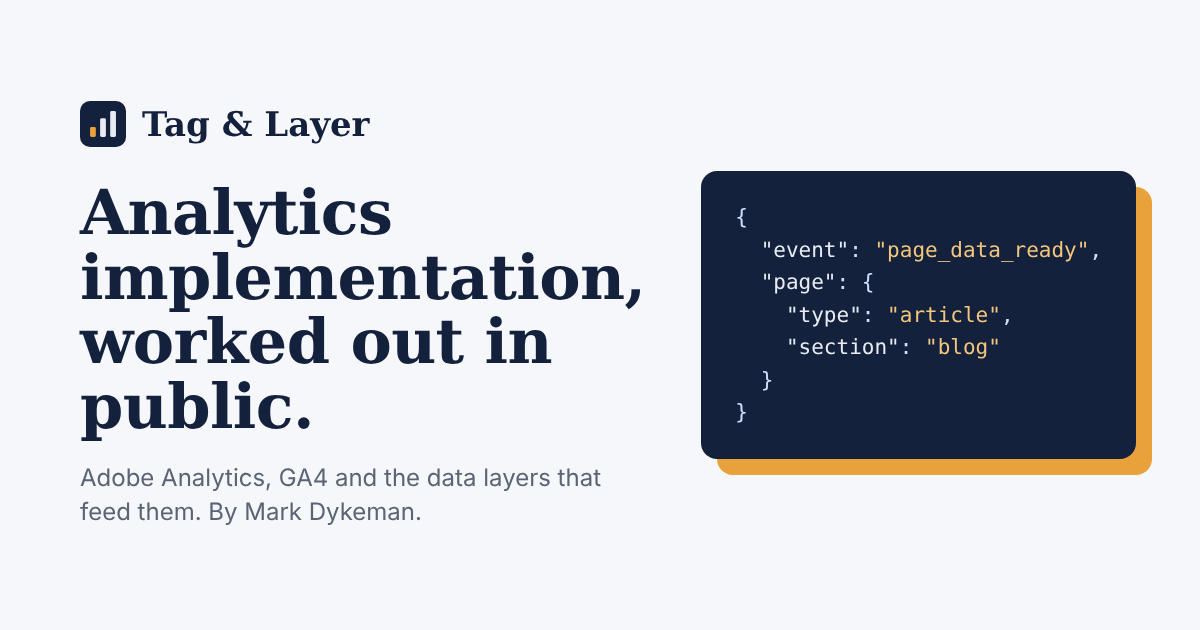
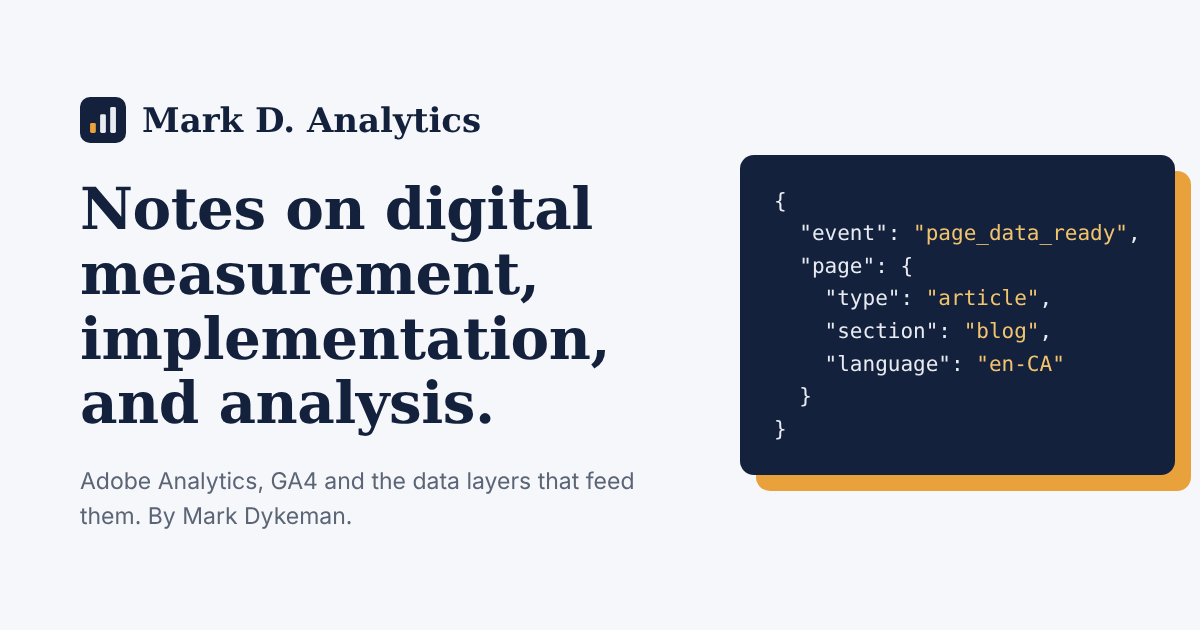
Rename site to Mark D. Analytics, new tagline
"Notes on digital measurement, implementation, and analysis."
French: "Notes sur la mesure numérique, l'implémentation et l'analyse."
New sharing image; data layer siteName and post examples updated; home
code sample no longer widens the page at phone width.

Claude-Session: https://claude.ai/code/session_01GPCtMPB6anPEJVevxipPTV

diff --git a/src/styles/blog.css b/src/styles/blog.css
@@ -1,4 +1,4 @@
-/* Tag & Layer — the blog and site hub */
+/* Mark D. Analytics — the blog and site hub */
 .blog {
   --paper: #F5F7FA;
   --ink: #14213D;
@@ -29,6 +29,7 @@
 /* Hub hero: the page's own data object is the hero image */
 .hub-hero { padding: 64px 0 48px; }
 .hub-hero .blog-wrap { display: grid; grid-template-columns: 1.05fr 1fr; gap: 48px; align-items: center; }
+.hub-hero .blog-wrap > * { min-width: 0; } /* long code lines scroll inside the specimen instead of widening the page */
 .hub-hero h1 { font: 700 clamp(38px, 5.5vw, 60px)/1.05 var(--serif); letter-spacing: -0.015em; margin: 0 0 18px; }
 .hub-hero p { font-size: 19px; color: var(--muted); max-width: 34ch; margin: 0; }
 .specimen {

diff --git a/src/lib/seo.ts b/src/lib/seo.ts
@@ -6,7 +6,7 @@ import { siteMeta } from '../config/tags';
 export const SITE_URL = (import.meta.env.SITE ?? 'https://markdanalytics.ca').replace(/\/$/, '');
 export const abs = (path: string) => SITE_URL + path;
 
-export const DEFAULT_IMAGE = { url: '/og-default.png', width: 1200, height: 630, alt: `${siteMeta.blogName}: analytics implementation notes by ${siteMeta.owner}` };
+export const DEFAULT_IMAGE = { url: '/og-default.png', width: 1200, height: 630, alt: `${siteMeta.blogName}: ${siteMeta.blogTagline} By ${siteMeta.owner}.` };
 
 const PERSON_ID = abs('/#person');
 const SITE_ID = abs('/#website');

diff --git a/src/config/tags.ts b/src/config/tags.ts
@@ -47,9 +47,9 @@ export const tags = {
 
 export const siteMeta = {
   owner: 'Mark Dykeman',
-  blogName: 'Tag & Layer',
-  blogTagline: 'Practical notes on Adobe Analytics, Google Analytics and the data layers that feed them.',
-  blogTaglineFr: 'Notes pratiques sur Adobe Analytics, Google Analytics et les couches de données qui les alimentent.',
+  blogName: 'Mark D. Analytics',
+  blogTagline: 'Notes on digital measurement, implementation, and analysis.',
+  blogTaglineFr: 'Notes sur la mesure numérique, l’implémentation et l’analyse.',
   language: 'en-CA',
   currency: 'CAD',
 };

diff --git a/src/content/blog/fr/how-this-sites-data-layer-works.md b/src/content/blog/fr/how-this-sites-data-layer-works.md
@@ -20,7 +20,7 @@ Au moment de la construction du site, chaque page reçoit un petit objet qui la 
     "name": "blog:how-this-sites-data-layer-works",
     "type": "article",
     "section": "blog",
-    "siteName": "Tag & Layer",
+    "siteName": "Mark D. Analytics",
     "path": "/fr/blogue/comment-fonctionne-la-couche-de-donnees/",
     "language": "fr-CA",
     "environment": "production"

diff --git a/src/content/blog/how-this-sites-data-layer-works.md b/src/content/blog/how-this-sites-data-layer-works.md
@@ -20,7 +20,7 @@ When the site is built, each page gets a small object describing it:
     "name": "blog:how-this-sites-data-layer-works",
     "type": "article",
     "section": "blog",
-    "siteName": "Tag & Layer",
+    "siteName": "Mark D. Analytics",
     "path": "/blog/how-this-sites-data-layer-works/",
     "language": "en-CA",
     "environment": "production"

diff --git a/README.md b/README.md
@@ -1,4 +1,6 @@
-# Tag & Layer: markdanalytics.ca
+# Mark D. Analytics: markdanalytics.ca
+
+*Notes on digital measurement, implementation, and analysis.*
 
 A blog for analytics implementation notes, plus two demo sites for testing
 Adobe and Google tags against a realistic data layer:
